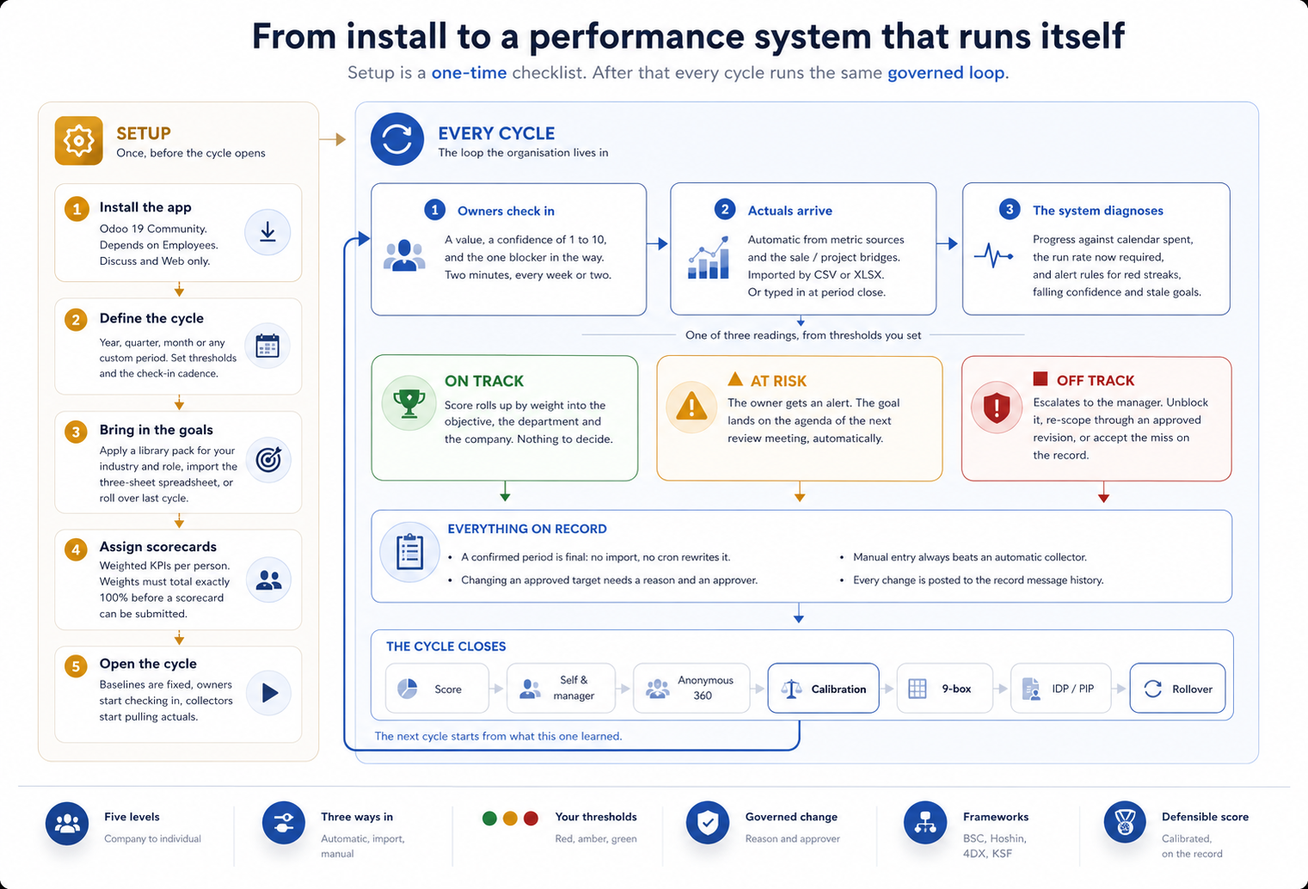
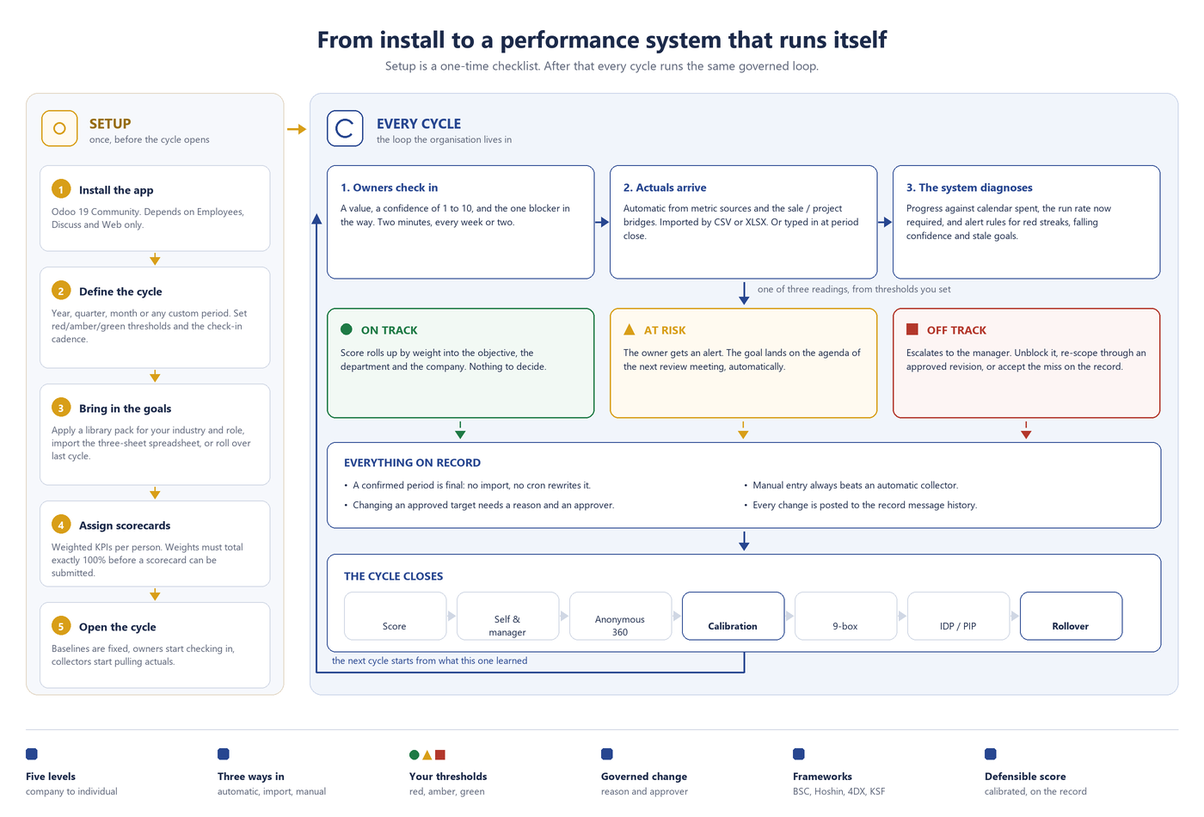
sync: plain-HTML listing page from 19.0 (38d9f16)

diff --git a/addons_hrm/aic_hrm_pro/static/description/index.html b/addons_hrm/aic_hrm_pro/static/description/index.html
@@ -1,14 +1,126 @@
-<!-- Apps Store descriptions are sanitised: style blocks are removed, so every rule here is inline, and responsiveness comes from max-width on images plus flex-wrap rather than media queries. -->
-<div style="font-family:"Segoe UI",-apple-system,Roboto,Helvetica,Arial,sans-serif;color:#1c2a4a;line-height:1.6;font-size:15px;max-width:1100px;margin:0 auto">
-<div style="background:#1c2a4a;color:#fff;padding:42px 26px"><h1 style="font-size:29px;font-weight:700;margin:0 0 10px;font-style:normal;line-height:1.25">AIConnect HRM Pro &#8212; OKR, KPI and Performance Management</h1><p style="font-size:17px;color:#c9d4ea;max-width:760px;margin:0 0 22px;line-height:1.55">A complete goal-management system for Odoo Community: objectives at five levels, a real KPI engine, a check-in rhythm that produces evidence, and a review cycle that ends in a calibrated score somebody can defend.</p><div style="display:flex;flex-wrap:wrap;border-top:1px solid #33436b;padding-top:18px"><div style="flex:0 0 auto;margin-right:26px;margin-bottom:8px"><b style="display:block;font-size:21px;line-height:1.2">7</b><span style="font-size:12px;color:#a9b6d2">modules, one install</span></div><div style="flex:0 0 auto;margin-right:26px;margin-bottom:8px"><b style="display:block;font-size:21px;line-height:1.2">5</b><span style="font-size:12px;color:#a9b6d2">goal levels</span></div><div style="flex:0 0 auto;margin-right:26px;margin-bottom:8px"><b style="display:block;font-size:21px;line-height:1.2">10 &#215; 25</b><span style="font-size:12px;color:#a9b6d2">industries &#215; role packs</span></div><div style="flex:0 0 auto;margin-right:26px;margin-bottom:8px"><b style="display:block;font-size:21px;line-height:1.2">hr &#183; mail &#183; web</b><span style="font-size:12px;color:#a9b6d2">Community dependencies only</span></div></div></div>
-<div style="background:#fafbfd;padding:34px 26px"><div style="font-size:12px;font-weight:700;letter-spacing:1.4px;text-transform:uppercase;color:#274690;margin:0 0 8px">Why goal programmes fail</div><h2 style="font-size:22px;font-weight:700;margin:0 0 6px;color:#1c2a4a;font-style:normal;line-height:1.3">Goals are rarely lost in the planning workshop. They are lost in month three.</h2><p style="color:#5c6478;margin:0 0 18px;line-height:1.6">Targets get written in January and reopened in December. Halfway through, nobody can say whether 20% is fine or a disaster. The number behind a KPI is re-argued every quarter because nobody wrote down what it means. And when scores finally land, they are compared across managers who never agreed on what a good one looks like.</p><p style="color:#5c6478;margin:0 0 18px;line-height:1.6">Three practices prevent that, and this suite is built around them: a <b>documented measurement</b>, a <b>cadence that produces evidence</b>, and <b>governance that makes a mid-cycle change a decision instead of an edit</b>.</p><figure style="margin:20px 0 6px"><img src="diagram-overview.png" alt="The whole system on one page: a one-time setup, then the loop every cycle runs." loading="lazy" style="display:block;width:100%;max-width:100%;height:auto;"><figcaption style="font-size:13px;color:#5c6478;margin-top:8px;line-height:1.5">The whole system on one page: a one-time setup, then the loop every cycle runs.</figcaption></figure></div>
-<div style="background:#f1f4f9;border-top:1px solid #dde2ec;border-bottom:1px solid #dde2ec;padding:34px 26px"><div style="font-size:12px;font-weight:700;letter-spacing:1.4px;text-transform:uppercase;color:#274690;margin:0 0 8px">The operating loop</div><h2 style="font-size:22px;font-weight:700;margin:0 0 6px;color:#1c2a4a;font-style:normal;line-height:1.3">Plan, Do, Check, Act &#8212; as records, not as a slide</h2><p style="color:#5c6478;margin:0 0 18px;line-height:1.6">Each stage leaves behind something the next stage can use.</p><div style="display:flex;flex-wrap:wrap;gap:14px"><div style="flex:1 1 220px;background:#fff;border:1px solid #dde2ec;border-radius:8px;padding:18px;min-width:0"><b style="display:block;color:#274690;font-size:12px;letter-spacing:1.2px;text-transform:uppercase;margin-bottom:6px">Plan</b><p style="font-size:14px;color:#39415a;margin:0;line-height:1.55">Objectives at company, branch, department, team or individual level with weighted key results. Four ways in: the form, a three-sheet Excel import, a rollover from the previous cycle, or a ready-made pack from the role library. Weights must reach exactly 100% before a scorecard can be submitted.</p></div><div style="flex:1 1 220px;background:#fff;border:1px solid #dde2ec;border-radius:8px;padding:18px;min-width:0"><b style="display:block;color:#274690;font-size:12px;letter-spacing:1.2px;text-transform:uppercase;margin-bottom:6px">Do</b><p style="font-size:14px;color:#39415a;margin:0;line-height:1.55">Check-ins carry a value, a 1-10 confidence and the one blocker in the way. Actuals also arrive automatically from metric sources and the sale/project bridges, or monthly by CSV/XLSX import from systems outside Odoo.</p></div><div style="flex:1 1 220px;background:#fff;border:1px solid #dde2ec;border-radius:8px;padding:18px;min-width:0"><b style="display:block;color:#274690;font-size:12px;letter-spacing:1.2px;text-transform:uppercase;margin-bottom:6px">Check</b><p style="font-size:14px;color:#39415a;margin:0;line-height:1.55">Pace diagnosis compares real progress against calendar spent and computes the run rate now required. Alert rules escalate red streaks, falling confidence and stale goals. Review meetings build their agenda from what is red, stale or blocked.</p></div><div style="flex:1 1 220px;background:#fff;border:1px solid #dde2ec;border-radius:8px;padding:18px;min-width:0"><b style="display:block;color:#274690;font-size:12px;letter-spacing:1.2px;text-transform:uppercase;margin-bottom:6px">Act</b><p style="font-size:14px;color:#39415a;margin:0;line-height:1.55">Mid-cycle target changes go through an approved revision with a written reason. At cycle end: scoring, a review route map, anonymous 360, calibration, 9-box, and a rollover that carries unfinished work into the next cycle.</p></div></div><figure style="margin:20px 0 6px"><img src="diagram-loop.png" alt="Plan, Do, Check, Act - each stage leaves a record the next one uses." loading="lazy" style="display:block;width:100%;max-width:100%;height:auto;"><figcaption style="font-size:13px;color:#5c6478;margin-top:8px;line-height:1.5">Plan, Do, Check, Act - each stage leaves a record the next one uses.</figcaption></figure><figure style="margin:20px 0 6px"><img src="shot-cockpit.png" alt="Leadership cockpit: cycle health, the department heatmap ordered worst first, and the risk queue." loading="lazy" style="display:block;width:100%;max-width:100%;height:auto;border:1px solid #dde2ec;border-radius:8px;"><figcaption style="font-size:13px;color:#5c6478;margin-top:8px;line-height:1.5">Leadership cockpit: cycle health, the department heatmap ordered worst first, and the risk queue.</figcaption></figure></div>
-<div style="background:#fafbfd;padding:34px 26px"><div style="font-size:12px;font-weight:700;letter-spacing:1.4px;text-transform:uppercase;color:#274690;margin:0 0 8px">Measurement design</div><h2 style="font-size:22px;font-weight:700;margin:0 0 6px;color:#1c2a4a;font-style:normal;line-height:1.3">A KPI is a definition, not a column heading</h2><p style="color:#5c6478;margin:0 0 18px;line-height:1.6">Every KPI carries its full documentation form, so the argument happens once and the operator knows exactly where the number comes from.</p><table style="width:100%;border-collapse:collapse;font-size:14px;background:#fff"><tr><th style="border:1px solid #dde2ec;padding:9px 12px;text-align:left;vertical-align:top;background:#f1f4f9;font-weight:600;width:26%">Business definition</th><td style="border:1px solid #dde2ec;padding:9px 12px;text-align:left;vertical-align:top">What this measures, in language the operator and the executive both accept</td></tr><tr><th style="border:1px solid #dde2ec;padding:9px 12px;text-align:left;vertical-align:top;background:#f1f4f9;font-weight:600;width:26%">Formula and unit</th><td style="border:1px solid #dde2ec;padding:9px 12px;text-align:left;vertical-align:top">The documented calculation - recorded for humans, never executed as code</td></tr><tr><th style="border:1px solid #dde2ec;padding:9px 12px;text-align:left;vertical-align:top;background:#f1f4f9;font-weight:600;width:26%">Direction</th><td style="border:1px solid #dde2ec;padding:9px 12px;text-align:left;vertical-align:top">Higher-is-better, lower-is-better, or pass/fail. Lower-is-better targets must be strictly positive: &#8220;zero incidents&#8221; is modelled as pass/fail, because a linear achievement formula is undefined at a target of zero</td></tr><tr><th style="border:1px solid #dde2ec;padding:9px 12px;text-align:left;vertical-align:top;background:#f1f4f9;font-weight:600;width:26%">Aggregation</th><td style="border:1px solid #dde2ec;padding:9px 12px;text-align:left;vertical-align:top">Final value, average or cumulative - how period results roll into the cycle number</td></tr><tr><th style="border:1px solid #dde2ec;padding:9px 12px;text-align:left;vertical-align:top;background:#f1f4f9;font-weight:600;width:26%">Frequency and source</th><td style="border:1px solid #dde2ec;padding:9px 12px;text-align:left;vertical-align:top">Which system or report the number comes from, on what cadence, and who confirms it</td></tr><tr><th style="border:1px solid #dde2ec;padding:9px 12px;text-align:left;vertical-align:top;background:#f1f4f9;font-weight:600;width:26%">Leading or lagging</th><td style="border:1px solid #dde2ec;padding:9px 12px;text-align:left;vertical-align:top">Whether it predicts the result or reports it</td></tr><tr><th style="border:1px solid #dde2ec;padding:9px 12px;text-align:left;vertical-align:top;background:#f1f4f9;font-weight:600;width:26%">Thresholds</th><td style="border:1px solid #dde2ec;padding:9px 12px;text-align:left;vertical-align:top">Red/amber/green bands inherited from the cycle, or overridden for this KPI alone</td></tr></table><figure style="margin:20px 0 6px"><img src="shot-kpi-form.png" alt="The KPI documentation form: definition, formula, direction, aggregation, source and thresholds in one place." loading="lazy" style="display:block;width:100%;max-width:100%;height:auto;border:1px solid #dde2ec;border-radius:8px;"><figcaption style="font-size:13px;color:#5c6478;margin-top:8px;line-height:1.5">The KPI documentation form: definition, formula, direction, aggregation, source and thresholds in one place.</figcaption></figure><p style="font-size:13px;color:#5c6478;margin-top:14px;line-height:1.55">Scoring follows the Google OKR convention: normalised 0.0-1.0, clamped to the cycle cap, with configurable thresholds (0.4 / 0.7 by default). Committed and aspirational objectives are scored separately, so a stretch goal landing at 0.7 is not read as a miss.</p></div>
-<div style="background:#f1f4f9;border-top:1px solid #dde2ec;border-bottom:1px solid #dde2ec;padding:34px 26px"><div style="font-size:12px;font-weight:700;letter-spacing:1.4px;text-transform:uppercase;color:#274690;margin:0 0 8px">Strategy frameworks</div><h2 style="font-size:22px;font-weight:700;margin:0 0 6px;color:#1c2a4a;font-style:normal;line-height:1.3">Read one portfolio through several lenses</h2><p style="color:#5c6478;margin:0 0 18px;line-height:1.6">Balanced Scorecard, Hoshin Kanri and 4DX ship built in, each with its own dimensions. An objective can carry dimensions from more than one framework at a time.</p><div style="display:flex;flex-wrap:wrap;gap:16px"><div style="flex:1 1 250px;background:#fff;border:1px solid #dde2ec;border-radius:8px;padding:18px;min-width:0"><span style="display:inline-block;font-size:11px;font-weight:700;letter-spacing:0.8px;text-transform:uppercase;color:#274690;margin-bottom:6px">Balanced Scorecard</span><h3 style="font-size:16px;font-weight:700;margin:0 0 6px;color:#1c2a4a">Is the portfolio balanced?</h3><p style="font-size:14px;color:#39415a;margin:0;line-height:1.55">Tag objectives and KPIs as Financial, Customer, Internal Process or Learning &amp; Growth, then group any goal list by perspective and look at the shape. A portfolio that is all Financial is borrowing against next year; nothing in Learning &amp; Growth means the capability that produces future results is not being built.</p></div><div style="flex:1 1 250px;background:#fff;border:1px solid #dde2ec;border-radius:8px;padding:18px;min-width:0"><span style="display:inline-block;font-size:11px;font-weight:700;letter-spacing:0.8px;text-transform:uppercase;color:#274690;margin-bottom:6px">Key success factors</span><h3 style="font-size:16px;font-weight:700;margin:0 0 6px;color:#1c2a4a">What must go right?</h3><p style="font-size:14px;color:#39415a;margin:0;line-height:1.55">A starter catalogue of the few areas where the strategy lives or dies. Each objective declares the factor it drives; each KPI declares the factor it measures. A factor with no measuring KPI is something you called critical and cannot see.</p></div><div style="flex:1 1 250px;background:#fff;border:1px solid #dde2ec;border-radius:8px;padding:18px;min-width:0"><span style="display:inline-block;font-size:11px;font-weight:700;letter-spacing:0.8px;text-transform:uppercase;color:#274690;margin-bottom:6px">Hoshin Kanri &#183; 4DX</span><h3 style="font-size:16px;font-weight:700;margin:0 0 6px;color:#1c2a4a">Separate the vital few</h3><p style="font-size:14px;color:#39415a;margin:0;line-height:1.55">Breakthrough bets, daily management and local improvement are distinguished explicitly, so the whirlwind of necessary operational work does not quietly crowd out the three to five changes the year actually exists for.</p></div><div style="flex:1 1 250px;background:#fff;border:1px solid #dde2ec;border-radius:8px;padding:18px;min-width:0"><span style="display:inline-block;font-size:11px;font-weight:700;letter-spacing:0.8px;text-transform:uppercase;color:#274690;margin-bottom:6px">Alignment</span><h3 style="font-size:16px;font-weight:700;margin:0 0 6px;color:#1c2a4a">Cascade that survives contact</h3><p style="font-size:14px;color:#39415a;margin:0;line-height:1.55">Objectives cascade inside a cycle or into the containing cycle - a quarterly goal under an annual one - plus soft &#8220;contributes to&#8221; links across the tree.</p></div></div><figure style="margin:20px 0 6px"><img src="diagram-cascade.png" alt="Five levels, weighted roll-up, and the frameworks a portfolio can be read through." loading="lazy" style="display:block;width:100%;max-width:100%;height:auto;"><figcaption style="font-size:13px;color:#5c6478;margin-top:8px;line-height:1.5">Five levels, weighted roll-up, and the frameworks a portfolio can be read through.</figcaption></figure><figure style="margin:20px 0 6px"><img src="shot-alignment.png" alt="The alignment tree: how every key result rolls up into the company plan." loading="lazy" style="display:block;width:100%;max-width:100%;height:auto;border:1px solid #dde2ec;border-radius:8px;"><figcaption style="font-size:13px;color:#5c6478;margin-top:8px;line-height:1.5">The alignment tree: how every key result rolls up into the company plan.</figcaption></figure></div>
-<div style="background:#fafbfd;padding:34px 26px"><div style="font-size:12px;font-weight:700;letter-spacing:1.4px;text-transform:uppercase;color:#274690;margin:0 0 8px">Getting real numbers in</div><h2 style="font-size:22px;font-weight:700;margin:0 0 6px;color:#1c2a4a;font-style:normal;line-height:1.3">Three ways in, and two rules that keep the data trustworthy</h2><div style="display:flex;flex-wrap:wrap;gap:16px"><div style="flex:1 1 250px;background:#fff;border:1px solid #dde2ec;border-radius:8px;padding:18px;min-width:0"><span style="display:inline-block;font-size:11px;font-weight:700;letter-spacing:0.8px;text-transform:uppercase;color:#274690;margin-bottom:6px">Automatic</span><h3 style="font-size:16px;font-weight:700;margin:0 0 6px;color:#1c2a4a">Metric sources and bridges</h3><p style="font-size:14px;color:#39415a;margin:0;line-height:1.55">Aggregate any allow-listed model on a schedule. The optional bridges pull task progress into key results, and quotations, confirmed orders and posted invoices into sales KPIs.</p></div><div style="flex:1 1 250px;background:#fff;border:1px solid #dde2ec;border-radius:8px;padding:18px;min-width:0"><span style="display:inline-block;font-size:11px;font-weight:700;letter-spacing:0.8px;text-transform:uppercase;color:#274690;margin-bottom:6px">Imported</span><h3 style="font-size:16px;font-weight:700;margin:0 0 6px;color:#1c2a4a">CSV / XLSX from other systems</h3><p style="font-size:14px;color:#39415a;margin:0;line-height:1.55">Monthly exports from MES, helpdesk or analytics land through the actuals import wizard, with a preview and a per-row report before anything is committed.</p></div><div style="flex:1 1 250px;background:#fff;border:1px solid #dde2ec;border-radius:8px;padding:18px;min-width:0"><span style="display:inline-block;font-size:11px;font-weight:700;letter-spacing:0.8px;text-transform:uppercase;color:#274690;margin-bottom:6px">Manual</span><h3 style="font-size:16px;font-weight:700;margin:0 0 6px;color:#1c2a4a">Entered at period close</h3><p style="font-size:14px;color:#39415a;margin:0;line-height:1.55">Everything else is typed in by the owner. Each role in the library ships a collection playbook saying where its numbers live and who confirms them.</p></div></div><div style="border-left:4px solid #d89e18;background:#fffaf0;padding:14px 16px;margin:18px 0;font-size:14px;line-height:1.6"><b style="color:#8a6410">Manual always beats automatic.</b> A value a person entered is never overwritten by a collector.<br><b style="color:#8a6410">A confirmed period is final.</b> Once a manager confirms a period result, no import and no scheduled job changes it silently.</div><figure style="margin:20px 0 6px"><img src="diagram-data.png" alt="Three ways in, one place they land, and the two rules that decide who wins." loading="lazy" style="display:block;width:100%;max-width:100%;height:auto;"><figcaption style="font-size:13px;color:#5c6478;margin-top:8px;line-height:1.5">Three ways in, one place they land, and the two rules that decide who wins.</figcaption></figure><figure style="margin:20px 0 6px"><img src="shot-kpi-target.png" alt="KPI targets with direction, aggregation and period results." loading="lazy" style="display:block;width:100%;max-width:100%;height:auto;border:1px solid #dde2ec;border-radius:8px;"><figcaption style="font-size:13px;color:#5c6478;margin-top:8px;line-height:1.5">KPI targets with direction, aggregation and period results.</figcaption></figure><figure style="margin:20px 0 6px"><img src="shot-kr-diagnosis.png" alt="Pace diagnosis on a key result: expected progress and the run rate now required." loading="lazy" style="display:block;width:100%;max-width:100%;height:auto;border:1px solid #dde2ec;border-radius:8px;"><figcaption style="font-size:13px;color:#5c6478;margin-top:8px;line-height:1.5">Pace diagnosis on a key result: expected progress and the run rate now required.</figcaption></figure></div>
-<div style="background:#f1f4f9;border-top:1px solid #dde2ec;border-bottom:1px solid #dde2ec;padding:34px 26px"><div style="font-size:12px;font-weight:700;letter-spacing:1.4px;text-transform:uppercase;color:#274690;margin:0 0 8px">Review and talent</div><h2 style="font-size:22px;font-weight:700;margin:0 0 6px;color:#1c2a4a;font-style:normal;line-height:1.3">A score people can defend</h2><div style="display:flex;flex-wrap:wrap;gap:16px"><div style="flex:1 1 250px;background:#fff;border:1px solid #dde2ec;border-radius:8px;padding:18px;min-width:0"><h3 style="font-size:16px;font-weight:700;margin:0 0 6px;color:#1c2a4a">Route-map reviews</h3><p style="font-size:14px;color:#39415a;margin:0;line-height:1.55">Build the review as stages - self-assessment, manager, peer, calibration, sign-off - with your own form, sections and question types. The goal score is snapshotted when the review is generated, so later edits to goals never rewrite history.</p></div><div style="flex:1 1 250px;background:#fff;border:1px solid #dde2ec;border-radius:8px;padding:18px;min-width:0"><h3 style="font-size:16px;font-weight:700;margin:0 0 6px;color:#1c2a4a">Anonymous 360</h3><p style="font-size:14px;color:#39415a;margin:0;line-height:1.55">Aggregates appear only once the minimum number of raters has answered. Rater identity is hidden at field level and responses are written by the system account, so no author trail points back at a rater.</p></div><div style="flex:1 1 250px;background:#fff;border:1px solid #dde2ec;border-radius:8px;padding:18px;min-width:0"><h3 style="font-size:16px;font-weight:700;margin:0 0 6px;color:#1c2a4a">Calibration with a record</h3><p style="font-size:14px;color:#39415a;margin:0;line-height:1.55">Compare scores across teams before they are final. Changing a score requires a written justification, and an applied line can be neither edited nor deleted afterwards - by anyone, administrators included.</p></div><div style="flex:1 1 250px;background:#fff;border:1px solid #dde2ec;border-radius:8px;padding:18px;min-width:0"><h3 style="font-size:16px;font-weight:700;margin:0 0 6px;color:#1c2a4a">9-box, IDP and PIP</h3><p style="font-size:14px;color:#39415a;margin:0;line-height:1.55">Performance against potential on a strict 3&#215;3 grid, development plans with actions and owners, and improvement plans with 30/60/90-day checkpoints.</p></div></div><figure style="margin:20px 0 6px"><img src="diagram-review.png" alt="From a goal score to a decision people can defend." loading="lazy" style="display:block;width:100%;max-width:100%;height:auto;"><figcaption style="font-size:13px;color:#5c6478;margin-top:8px;line-height:1.5">From a goal score to a decision people can defend.</figcaption></figure><figure style="margin:20px 0 6px"><img src="shot-scorecard.png" alt="Personal scorecards: weighted KPIs that must total exactly 100% to submit." loading="lazy" style="display:block;width:100%;max-width:100%;height:auto;border:1px solid #dde2ec;border-radius:8px;"><figcaption style="font-size:13px;color:#5c6478;margin-top:8px;line-height:1.5">Personal scorecards: weighted KPIs that must total exactly 100% to submit.</figcaption></figure></div>
-<div style="background:#fafbfd;padding:34px 26px"><div style="font-size:12px;font-weight:700;letter-spacing:1.4px;text-transform:uppercase;color:#274690;margin:0 0 8px">Start from something</div><h2 style="font-size:22px;font-weight:700;margin:0 0 6px;color:#1c2a4a;font-style:normal;line-height:1.3">A role library instead of a blank page</h2><p style="color:#5c6478;margin:0 0 18px;line-height:1.6">Ten industries and twenty-five roles of ready-made objective and KPI templates, written in the KPI documentation practice and informed by the ISO 30414 human-capital indicator families. Pick your industry, pick the role, apply the pack into a cycle, then edit the drafts - the templates are reference points, not prescriptions.</p><ul style="margin:0 0 14px;padding-left:20px;font-size:14px;line-height:1.6"><li>Per-role collection playbooks: where each number lives, how it is pulled and on what cadence</li><li>A built-in management guide covering the OKR rhythm, writing key results as numbers rather than activities, the Balanced Scorecard balance check, success factors, data collection and fair scoring</li><li>A capture wizard that turns your own proven objectives and KPIs into company templates, kept per company and never mixed into the shared built-ins</li></ul><figure style="margin:20px 0 6px"><img src="shot-library.png" alt="The role library: industries, roles and ready-made packs." loading="lazy" style="display:block;width:100%;max-width:100%;height:auto;border:1px solid #dde2ec;border-radius:8px;"><figcaption style="font-size:13px;color:#5c6478;margin-top:8px;line-height:1.5">The role library: industries, roles and ready-made packs.</figcaption></figure><figure style="margin:20px 0 6px"><img src="shot-guide.png" alt="The built-in management guide, shipped with the product." loading="lazy" style="display:block;width:100%;max-width:100%;height:auto;border:1px solid #dde2ec;border-radius:8px;"><figcaption style="font-size:13px;color:#5c6478;margin-top:8px;line-height:1.5">The built-in management guide, shipped with the product.</figcaption></figure></div>
-<div style="background:#f1f4f9;border-top:1px solid #dde2ec;border-bottom:1px solid #dde2ec;padding:34px 26px"><div style="font-size:12px;font-weight:700;letter-spacing:1.4px;text-transform:uppercase;color:#274690;margin:0 0 8px">Governance</div><h2 style="font-size:22px;font-weight:700;margin:0 0 6px;color:#1c2a4a;font-style:normal;line-height:1.3">Changes are decisions, and they leave a trail</h2><div style="display:flex;flex-wrap:wrap;gap:16px"><div style="flex:1 1 250px;background:#fff;border:1px solid #dde2ec;border-radius:8px;padding:18px;min-width:0"><h3 style="font-size:16px;font-weight:700;margin:0 0 6px;color:#1c2a4a">Cycle lock</h3><p style="font-size:14px;color:#39415a;margin:0;line-height:1.55">Cycles run in parallel and nest - a quarter inside a year. Closing and locking a cycle stops business edits; corrections after that go through an approved revision, not a quiet write.</p></div><div style="flex:1 1 250px;background:#fff;border:1px solid #dde2ec;border-radius:8px;padding:18px;min-width:0"><h3 style="font-size:16px;font-weight:700;margin:0 0 6px;color:#1c2a4a">Target revisions</h3><p style="font-size:14px;color:#39415a;margin:0;line-height:1.55">A change to an approved target, weight or owner records the old value, the new value, the reason and the approver, and posts all of it to the record's message history.</p></div><div style="flex:1 1 250px;background:#fff;border:1px solid #dde2ec;border-radius:8px;padding:18px;min-width:0"><h3 style="font-size:16px;font-weight:700;margin:0 0 6px;color:#1c2a4a">Access by reporting line</h3><p style="font-size:14px;color:#39415a;margin:0;line-height:1.55">Record rules follow the Odoo manager chain and company boundaries. Metric sources evaluate with the caller's own access rights, and only against models an administrator has allow-listed.</p></div><div style="flex:1 1 250px;background:#fff;border:1px solid #dde2ec;border-radius:8px;padding:18px;min-width:0"><h3 style="font-size:16px;font-weight:700;margin:0 0 6px;color:#1c2a4a">Honest about limits</h3><p style="font-size:14px;color:#39415a;margin:0;line-height:1.55">360 anonymity is enforced at application level. A database administrator with direct SQL access can always read raw rows - the documentation states that rather than implying a guarantee it cannot make.</p></div></div><figure style="margin:20px 0 6px"><img src="shot-alerts.png" alt="Alert rules are configuration, not code: red streaks, falling confidence, stale goals." loading="lazy" style="display:block;width:100%;max-width:100%;height:auto;border:1px solid #dde2ec;border-radius:8px;"><figcaption style="font-size:13px;color:#5c6478;margin-top:8px;line-height:1.5">Alert rules are configuration, not code: red streaks, falling confidence, stale goals.</figcaption></figure><figure style="margin:20px 0 6px"><img src="shot-objectives.png" alt="Objectives across levels, with weights, owners and key-result counts." loading="lazy" style="display:block;width:100%;max-width:100%;height:auto;border:1px solid #dde2ec;border-radius:8px;"><figcaption style="font-size:13px;color:#5c6478;margin-top:8px;line-height:1.5">Objectives across levels, with weights, owners and key-result counts.</figcaption></figure><p style="font-size:13px;color:#5c6478;margin-top:14px;line-height:1.55">Screenshots are taken on the demo dataset that ships with the app. The application area is shown on its own; an optional backend theme was used for the surrounding shell and is not part of this product.</p></div>
-<div style="background:#fafbfd;padding:34px 26px"><div style="font-size:12px;font-weight:700;letter-spacing:1.4px;text-transform:uppercase;color:#274690;margin:0 0 8px">Specifications</div><h2 style="font-size:22px;font-weight:700;margin:0 0 6px;color:#1c2a4a;font-style:normal;line-height:1.3">What you get</h2><table style="width:100%;border-collapse:collapse;font-size:14px;background:#fff"><tr><th style="border:1px solid #dde2ec;padding:9px 12px;text-align:left;vertical-align:top;background:#f1f4f9;font-weight:600;width:26%">Odoo version</th><td style="border:1px solid #dde2ec;padding:9px 12px;text-align:left;vertical-align:top">19.0 Community. An 18.0 backport is maintained and available on request.</td></tr><tr><th style="border:1px solid #dde2ec;padding:9px 12px;text-align:left;vertical-align:top;background:#f1f4f9;font-weight:600;width:26%">Dependencies</th><td style="border:1px solid #dde2ec;padding:9px 12px;text-align:left;vertical-align:top">Employees (hr), Discuss (mail), Web - Community only. No Enterprise app required. Excel import uses the <code>openpyxl</code> Python package, with a clear message if it is not installed.</td></tr><tr><th style="border:1px solid #dde2ec;padding:9px 12px;text-align:left;vertical-align:top;background:#f1f4f9;font-weight:600;width:26%">Installed by this app</th><td style="border:1px solid #dde2ec;padding:9px 12px;text-align:left;vertical-align:top">AIConnect HRM Base &#183; AIConnect OKR &amp; KPI &#183; AIConnect HRM Review &#183; AIConnect HRM Library</td></tr><tr><th style="border:1px solid #dde2ec;padding:9px 12px;text-align:left;vertical-align:top;background:#f1f4f9;font-weight:600;width:26%">Optional bridges</th><td style="border:1px solid #dde2ec;padding:9px 12px;text-align:left;vertical-align:top">AIConnect HRM Project and AIConnect HRM Sale, installed separately when the matching Odoo app is present</td></tr><tr><th style="border:1px solid #dde2ec;padding:9px 12px;text-align:left;vertical-align:top;background:#f1f4f9;font-weight:600;width:26%">Languages</th><td style="border:1px solid #dde2ec;padding:9px 12px;text-align:left;vertical-align:top">English and Vietnamese. Japanese ships as a flagged draft, marked as needing native review rather than presented as finished.</td></tr><tr><th style="border:1px solid #dde2ec;padding:9px 12px;text-align:left;vertical-align:top;background:#f1f4f9;font-weight:600;width:26%">Demo data</th><td style="border:1px solid #dde2ec;padding:9px 12px;text-align:left;vertical-align:top">A fictional dataset modelled on a real digital-product department: weighted objectives totalling 100%, a KPI catalogue with directions and aggregation methods, and personal scorecards summing to 100%.</td></tr><tr><th style="border:1px solid #dde2ec;padding:9px 12px;text-align:left;vertical-align:top;background:#f1f4f9;font-weight:600;width:26%">Licence</th><td style="border:1px solid #dde2ec;padding:9px 12px;text-align:left;vertical-align:top">OPL-1</td></tr></table></div>
-<div style="background:#1c2a4a;color:#c9d4ea;padding:30px 26px;line-height:1.6"><h2 style="font-size:20px;font-weight:700;color:#fff;margin:0 0 10px;font-style:normal">AIPOWER CO., LTD</h2><p style="margin:0 0 12px">We build Odoo systems for companies that intend to run on them. If you want this suite configured against your own cycles, industries and reporting lines, that is work we do as well.</p><p style="margin:0 0 12px">Part of the <b>AIConnect</b> range for Odoo, alongside AIConnect AI Agent Helpdesk.</p><p style="margin:0"><b>Website:</b> <a href="https://aipower.vn/en" style="color:#fff">aipower.vn/en</a><br><b>Sales and support:</b> <a href="mailto:sales@aipower.vn" style="color:#fff">sales@aipower.vn</a></p></div>
-</div>
+<!-- The Apps Store strips style blocks and style attributes and renders this with its own typography,
+     so the markup is plain and the design lives in the images. -->
+<h2>AIConnect HRM Pro &#8212; OKR, KPI and Performance Management</h2>
+<p>A complete goal-management system for Odoo Community: objectives at five levels, a real KPI engine, a check-in rhythm that produces evidence, and a review cycle that ends in a calibrated score somebody can defend.</p>
+<ul>
+<li><b>7 modules</b>, one install</li>
+<li><b>5 goal levels</b>: company, branch, department, team, individual</li>
+<li><b>10 industries &#215; 25 roles</b> of ready-made OKR and KPI packs</li>
+<li>Community dependencies only: Employees (hr), Discuss (mail), Web</li>
+</ul>
+
+<h2>Goals are rarely lost in the planning workshop. They are lost in month three.</h2>
+<p>Targets get written in January and reopened in December. Halfway through, nobody can say whether 20% is fine or a disaster. The number behind a KPI is re-argued every quarter because nobody wrote down what it means. And when scores finally land, they are compared across managers who never agreed on what a good one looks like.</p>
+<p>Three practices prevent that, and this suite is built around them: a <b>documented measurement</b>, a <b>cadence that produces evidence</b>, and <b>governance that makes a mid-cycle change a decision instead of an edit</b>.</p>
+<p><img src="diagram-overview.png" alt="The whole system on one page: a one-time setup, then the loop every cycle runs."></p>
+<p><small><i>The whole system on one page: a one-time setup, then the loop every cycle runs.</i></small></p>
+
+<h2>Plan, Do, Check, Act &#8212; as records, not as a slide</h2>
+<p>Each stage leaves behind something the next stage can use.</p>
+<ul>
+<li><b>Plan.</b> Objectives at company, branch, department, team or individual level with weighted key results. Four ways in: the form, a three-sheet Excel import, a rollover from the previous cycle, or a ready-made pack from the role library. Weights must reach exactly 100% before a scorecard can be submitted.</li>
+<li><b>Do.</b> Check-ins carry a value, a 1-10 confidence and the one blocker in the way. Actuals also arrive automatically from metric sources and the sale/project bridges, or monthly by CSV/XLSX import from systems outside Odoo.</li>
+<li><b>Check.</b> Pace diagnosis compares real progress against calendar spent and computes the run rate now required. Alert rules escalate red streaks, falling confidence and stale goals. Review meetings build their agenda from what is red, stale or blocked.</li>
+<li><b>Act.</b> Mid-cycle target changes go through an approved revision with a written reason. At cycle end: scoring, a review route map, anonymous 360, calibration, 9-box, and a rollover that carries unfinished work into the next cycle.</li>
+</ul>
+<p><img src="diagram-loop.png" alt="Plan, Do, Check, Act - each stage leaves a record the next one uses."></p>
+<p><small><i>Plan, Do, Check, Act - each stage leaves a record the next one uses.</i></small></p>
+<p><img src="shot-cockpit.png" alt="Leadership cockpit: cycle health, the department heatmap ordered worst first, and the risk queue."></p>
+<p><small><i>Leadership cockpit: cycle health, the department heatmap ordered worst first, and the risk queue.</i></small></p>
+
+<h2>A KPI is a definition, not a column heading</h2>
+<p>Every KPI carries its full documentation form, so the argument happens once and the operator knows exactly where the number comes from.</p>
+<ul>
+<li><b>Business definition.</b> What this measures, in language the operator and the executive both accept.</li>
+<li><b>Formula and unit.</b> The documented calculation - recorded for humans, never executed as code.</li>
+<li><b>Direction.</b> Higher-is-better, lower-is-better, or pass/fail. Lower-is-better targets must be strictly positive: "zero incidents" is modelled as pass/fail, because a linear achievement formula is undefined at a target of zero.</li>
+<li><b>Aggregation.</b> Final value, average or cumulative - how period results roll into the cycle number.</li>
+<li><b>Frequency and source.</b> Which system or report the number comes from, on what cadence, and who confirms it.</li>
+<li><b>Leading or lagging.</b> Whether it predicts the result or reports it.</li>
+<li><b>Thresholds.</b> Red/amber/green bands inherited from the cycle, or overridden for this KPI alone.</li>
+</ul>
+<p>Scoring follows the Google OKR convention: normalised 0.0-1.0, clamped to the cycle cap, with configurable thresholds (0.4 / 0.7 by default). Committed and aspirational objectives are scored separately, so a stretch goal landing at 0.7 is not read as a miss.</p>
+<p><img src="shot-kpi-form.png" alt="The KPI documentation form: definition, formula, direction, aggregation, source and thresholds in one place."></p>
+<p><small><i>The KPI documentation form: definition, formula, direction, aggregation, source and thresholds in one place.</i></small></p>
+
+<h2>Read one portfolio through several lenses</h2>
+<p>Balanced Scorecard, Hoshin Kanri and 4DX ship built in, each with its own dimensions. An objective can carry dimensions from more than one framework at a time.</p>
+<ul>
+<li><b>Balanced Scorecard - is the portfolio balanced?</b> Tag objectives and KPIs as Financial, Customer, Internal Process or Learning &amp; Growth, then group any goal list by perspective and look at the shape. A portfolio that is all Financial is borrowing against next year; nothing in Learning &amp; Growth means the capability that produces future results is not being built.</li>
+<li><b>Key success factors - what must go right?</b> A starter catalogue of the few areas where the strategy lives or dies. Each objective declares the factor it drives; each KPI declares the factor it measures. A factor with no measuring KPI is something you called critical and cannot see.</li>
+<li><b>Hoshin Kanri and 4DX - separate the vital few.</b> Breakthrough bets, daily management and local improvement are distinguished explicitly, so the whirlwind of necessary operational work does not quietly crowd out the three to five changes the year exists for.</li>
+<li><b>Alignment that survives contact.</b> Objectives cascade inside a cycle or into the containing cycle - a quarterly goal under an annual one - plus soft "contributes to" links across the tree.</li>
+</ul>
+<p><img src="diagram-cascade.png" alt="Five levels, weighted roll-up, and the frameworks a portfolio can be read through."></p>
+<p><small><i>Five levels, weighted roll-up, and the frameworks a portfolio can be read through.</i></small></p>
+<p><img src="shot-alignment.png" alt="The alignment tree: how every key result rolls up into the company plan."></p>
+<p><small><i>The alignment tree: how every key result rolls up into the company plan.</i></small></p>
+
+<h2>Three ways in, and two rules that keep the data trustworthy</h2>
+<ul>
+<li><b>Automatic.</b> Metric sources aggregate any allow-listed model on a schedule. The optional bridges pull task progress into key results, and quotations, confirmed orders and posted invoices into sales KPIs.</li>
+<li><b>Imported.</b> Monthly CSV or XLSX exports from MES, helpdesk or analytics land through the actuals import wizard, with a preview and a per-row report before anything is committed.</li>
+<li><b>Manual.</b> Everything else is typed in by the owner. Each role in the library ships a collection playbook saying where its numbers live and who confirms them.</li>
+</ul>
+<p><b>Manual always beats automatic.</b> A value a person entered is never overwritten by a collector.<br>
+<b>A confirmed period is final.</b> Once a manager confirms a period result, no import and no scheduled job changes it silently.</p>
+<p><img src="diagram-data.png" alt="Three ways in, one place they land, and the two rules that decide who wins."></p>
+<p><small><i>Three ways in, one place they land, and the two rules that decide who wins.</i></small></p>
+<p><img src="shot-kpi-target.png" alt="KPI targets with direction, aggregation and period results."></p>
+<p><small><i>KPI targets with direction, aggregation and period results.</i></small></p>
+<p><img src="shot-kr-diagnosis.png" alt="Pace diagnosis on a key result: expected progress and the run rate now required."></p>
+<p><small><i>Pace diagnosis on a key result: expected progress and the run rate now required.</i></small></p>
+
+<h2>A score people can defend</h2>
+<ul>
+<li><b>Route-map reviews.</b> Build the review as stages - self-assessment, manager, peer, calibration, sign-off - with your own form, sections and question types. The goal score is snapshotted when the review is generated, so later edits to goals never rewrite history.</li>
+<li><b>Anonymous 360.</b> Aggregates appear only once the minimum number of raters has answered. Rater identity is hidden at field level and responses are written by the system account, so no author trail points back at a rater.</li>
+<li><b>Calibration with a record.</b> Compare scores across teams before they are final. Changing a score requires a written justification, and an applied line can be neither edited nor deleted afterwards - by anyone, administrators included.</li>
+<li><b>9-box, IDP and PIP.</b> Performance against potential on a strict 3x3 grid, development plans with actions and owners, and improvement plans with 30/60/90-day checkpoints.</li>
+</ul>
+<p><img src="diagram-review.png" alt="From a goal score to a decision people can defend."></p>
+<p><small><i>From a goal score to a decision people can defend.</i></small></p>
+<p><img src="shot-scorecard.png" alt="Personal scorecards: weighted KPIs that must total exactly 100% to submit."></p>
+<p><small><i>Personal scorecards: weighted KPIs that must total exactly 100% to submit.</i></small></p>
+
+<h2>A role library instead of a blank page</h2>
+<p>Ten industries and twenty-five roles of ready-made objective and KPI templates, written in the KPI documentation practice and informed by the ISO 30414 human-capital indicator families. Pick your industry, pick the role, apply the pack into a cycle, then edit the drafts - the templates are reference points, not prescriptions.</p>
+<ul>
+<li>Per-role collection playbooks: where each number lives, how it is pulled and on what cadence.</li>
+<li>A built-in management guide covering the OKR rhythm, writing key results as numbers rather than activities, the Balanced Scorecard balance check, success factors, data collection and fair scoring.</li>
+<li>A capture wizard that turns your own proven objectives and KPIs into company templates, kept per company and never mixed into the shared built-ins.</li>
+</ul>
+<p><img src="shot-library.png" alt="The role library: industries, roles and ready-made packs."></p>
+<p><small><i>The role library: industries, roles and ready-made packs.</i></small></p>
+<p><img src="shot-guide.png" alt="The built-in management guide, shipped with the product."></p>
+<p><small><i>The built-in management guide, shipped with the product.</i></small></p>
+
+<h2>Changes are decisions, and they leave a trail</h2>
+<ul>
+<li><b>Cycle lock.</b> Cycles run in parallel and nest - a quarter inside a year. Closing and locking a cycle stops business edits; corrections after that go through an approved revision, not a quiet write.</li>
+<li><b>Target revisions.</b> A change to an approved target, weight or owner records the old value, the new value, the reason and the approver, and posts all of it to the record's message history.</li>
+<li><b>Access by reporting line.</b> Record rules follow the Odoo manager chain and company boundaries. Metric sources evaluate with the caller's own access rights, and only against models an administrator has allow-listed.</li>
+<li><b>Honest about limits.</b> 360 anonymity is enforced at application level. A database administrator with direct SQL access can always read raw rows - the documentation states that rather than implying a guarantee it cannot make.</li>
+</ul>
+<p><img src="shot-alerts.png" alt="Alert rules are configuration, not code: red streaks, falling confidence, stale goals."></p>
+<p><small><i>Alert rules are configuration, not code: red streaks, falling confidence, stale goals.</i></small></p>
+<p><img src="shot-objectives.png" alt="Objectives across levels, with weights, owners and key-result counts."></p>
+<p><small><i>Objectives across levels, with weights, owners and key-result counts.</i></small></p>
+<p><small><i>Screenshots are taken on the demo dataset that ships with the app. The application area is shown on its own; an optional backend theme was used for the surrounding shell and is not part of this product.</i></small></p>
+
+<h2>What you get</h2>
+<ul>
+<li><b>Odoo version.</b> 19.0 Community. An 18.0 backport is maintained and available on request.</li>
+<li><b>Dependencies.</b> Employees (hr), Discuss (mail), Web - Community only. No Enterprise app required. Excel import uses the openpyxl Python package, with a clear message if it is not installed.</li>
+<li><b>Installed by this app.</b> AIConnect HRM Base, AIConnect OKR &amp; KPI, AIConnect HRM Review, AIConnect HRM Library.</li>
+<li><b>Optional bridges.</b> AIConnect HRM Project and AIConnect HRM Sale, installed separately when the matching Odoo app is present.</li>
+<li><b>Languages.</b> English and Vietnamese. Japanese ships as a flagged draft, marked as needing native review rather than presented as finished.</li>
+<li><b>Demo data.</b> A fictional dataset modelled on a real digital-product department: weighted objectives totalling 100%, a KPI catalogue with directions and aggregation methods, and personal scorecards summing to 100%.</li>
+<li><b>Licence.</b> OPL-1.</li>
+</ul>
+
+<h2>AIPOWER CO., LTD</h2>
+<p>We build Odoo systems for companies that intend to run on them. If you want this suite configured against your own cycles, industries and reporting lines, that is work we do as well.</p>
+<p>Part of the <b>AIConnect</b> range for Odoo, alongside AIConnect AI Agent Helpdesk.</p>
+<p>Website: <a href="https://aipower.vn/en">aipower.vn/en</a><br>
+Sales and support: <a href="mailto:sales@aipower.vn">sales@aipower.vn</a></p>
